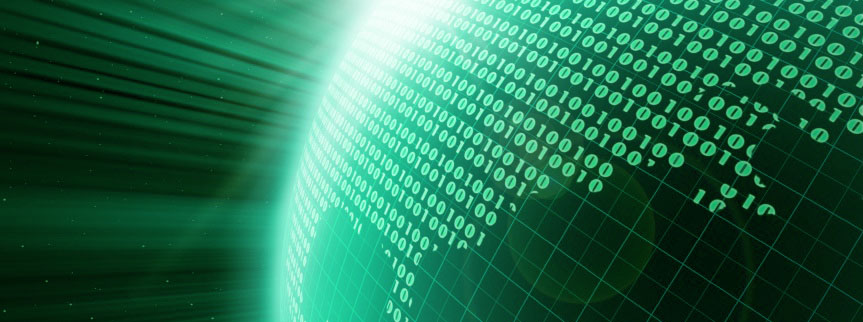
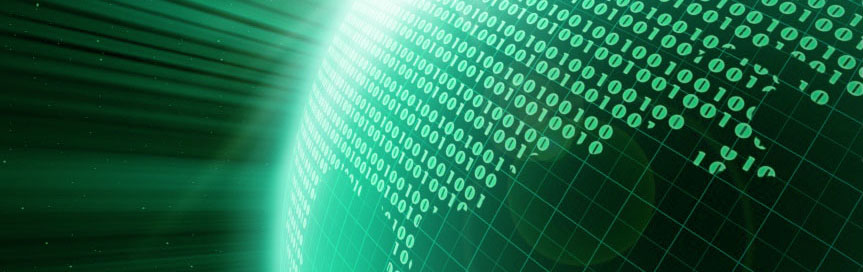
alterações em folha de estilo

diff --git a/estatica-css/WebContent/cadastro.html b/estatica-css/WebContent/cadastro.html
@@ -1,41 +1,60 @@
 <!DOCTYPE html>
 <html>
 	<head>
-		<meta charset="UTF-8">
-		<title>Sistema da Informação 1 - UFCG</title>
-		<meta charset="utf-8">
-		
-		<style>
-			body {background-image:url("background.jpg");}
+		<meta http-equiv="content-type" content="text/html; charset=utf-8">  	
+		<title>SI1 - UFCG</title>  	
+		<link rel="stylesheet" href="css/style.css" type="text/css" media="screen">  
+		<style type="text/css"> 
+			body {background-image: url(img/background2.jpg); }
 		</style>
 		
 	</head>
-	<body>
-	
-		<figure>
-			<img src="img/barra_topo.jpg" alt="action bar" >
-			
-		</figure>
-		
-		<h1 style="padding-left:10%"> Matricule-se!</h1> <br>
-	
-	<form style="padding-left:15%">
-		Nome:<br> <input type="text" name="nome" style="width:80%;"> <br>
-		E-mail:<br> <input type="email" name="email" style="width:80%;"> <br>
-		Curso:<br> <input type = "text" name = "curso" style="width:50%;" style="padding-right:1%">
-		<br> Matricula:<br> <input type="text" name="matricula"> <br>
-	  
-	 <br> <button type="button" onclick="parent.location='confirm.html'">Cadastre-se</button>
-			   
-	
-	</form>
-	
-		<br><br>		  
-		<figure>
-			<img src="img/marcador.png" alt="marcador" >
-			
-		</figure>
+<body>
 
+	<div id="container">
+		<div id="header" title="Sistema da Informação 1">
+			<img class="imagefloat" src="img/bg_header.jpg" alt="" width="998"
+				height="152">
+			<h1>Sistema da Informação 1</h1>
+		</div>
+
+		<div id="mainnav">
+			<ul>
+				<li><a href="index.html">Início</a>
+				</li>
+				<li><a
+					href="https://sites.google.com/a/computacao.ufcg.edu.br/si1/conteudo-e-objetivos"
+					target="_blank">Conteúdo</a>
+				</li>
+				<li><a
+					href="https://sites.google.com/a/computacao.ufcg.edu.br/si1/ferramentas-e-tecnologias"
+					target="_blank">Ferramentas e Tecnologias</a>
+				</li>
+			</ul>
+		</div>
+
+		<div id="contents">
+			<div class="pag_principal">
+				<h4>
+					<a style="color: #264820" title="Pagina principal">Insira seus
+						dados para efetuar matrícula!</a>
+				</h4>
+
+
+			<form class="basic-grey" action="" method="post" >
+
+					<label> <span> Your Name :</span> <input id="name"
+						type="text" name="name" placeholder="Your Full Name" /> </label> 
+					<label> <span>Your Email :</span> <input id="email" type="email"
+						name="email" placeholder="Valid Email Address" /> </label> 
+					<label> <span>Message :</span> <textarea id="message" name="message"
+							placeholder="Your Message to Us"></textarea> </label> 
+					<label> <input type="button" class="button" value="Send" /> </label>
+			</form>
+			</div>
+		</div>
+	</div>
+	<div id="footer"></div>
 
 </body>
 </html>

diff --git a/estatica-css/WebContent/index.html b/estatica-css/WebContent/index.html
@@ -4,15 +4,16 @@
 		<meta http-equiv="content-type" content="text/html; charset=utf-8">  	
 		<title>SI1 - UFCG</title>  	
 		<link rel="stylesheet" href="css/style.css" type="text/css" media="screen">  
-		
+		<style type="text/css"> 
+			body {background-image: url(img/background2.jpg); }
+		</style>
 		
 	</head>
 	<body>
-	
+		
 		<div id="container">
 			<div id="header" title="Sistema da Informação 1" >
-				<img class="imagefloat" src="img/bg_header.jpg" alt="" width="998" height="150" border="0">
-				<div id="skipmenu"> <a href="#content">Voltar à pagina inicial </a></div>
+				<img class="imagefloat" src="img/bg_header.jpg" alt="" width="998" height="152" >
 				<h1>Sistema da Informação 1</h1>
 			</div>
 				
@@ -26,7 +27,7 @@
 			<div id="menu">
 				<h3>Arquivos</h3>
 				<ul>
-						<li><a href="#">Link lab 1</a></li>  			
+						<li><a href="https://docs.google.com/document/d/1Do4ez0ey1sJJf6L-IFtRH4GEzRugdSaOYZ5BrxWpNFU/edit#" target="_blank">Link lab 1</a></li>  			
 						<li><a href="#">Link lab 2</a></li>  			
 						<li><a href="#">Link lab 3</a></li>  
 						<li><a href="#">Link lab 4</a></li> 
@@ -35,7 +36,7 @@
 				 
 			</div>
 			<div id="contents">
-				<div class = "pag_princial">
+				<div class = "pag_principal">
 					<h2>  				
 					<a title="Pagina principal">Bem vindo à SI 1!</a>  			
 					</h2>
@@ -44,7 +45,14 @@
 				</p>
 				
 				<p>Nesta disciplina uniremos estas necessidades, abordando conteúdos para desenvolvimento Web e Design de Software, com o intuito de estimular boas práticas de programação! 
-			    <br>Dentre os conteúdos, podemos destacar: 	
+			    <br>Dentre os conteúdos, podemos destacar:
+			    	<ul style="padding-left:10%"> 
+				  	<li> HTML, Javascript, Jquery, Bootstrap e CSS </li>
+				  	<li> Arquitetura de Software</li>
+				  	<li> Padrões de projeto</li>
+				  </ul>
+	
+	<a style="padding-left:10%" href="cadastro.html">Estou convencido! </a> 	
 			    </p>  				
 				</div>
 			</div>
